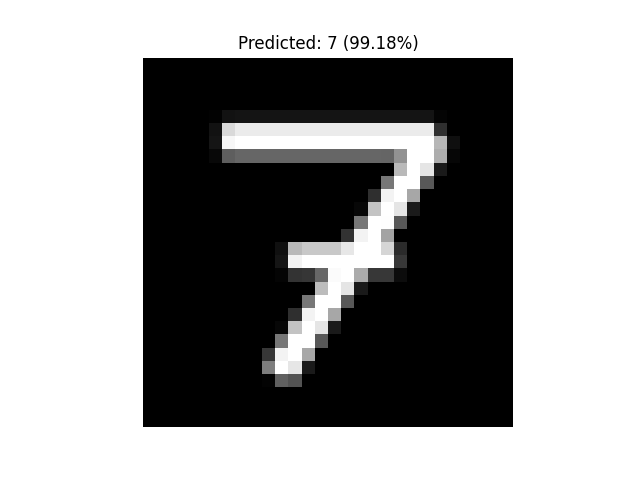
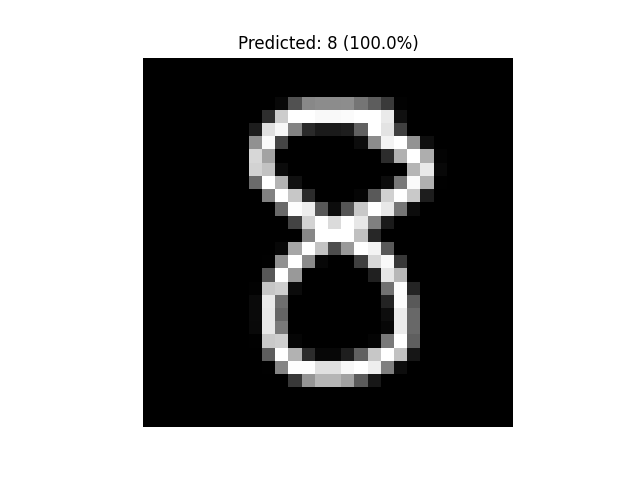
fix: update image path handling in prediction script to check for alternate image file

Changed region(s): [[0.3438, 0.1875, 0.7188, 0.8125], [0.5, 0.0625, 0.625, 0.125]]

diff --git a/test_my_digit.py b/test_my_digit.py
@@ -1,5 +1,6 @@
 # Task 11: Predict handwritten digit from custom image
 
+import os
 import numpy as np
 import matplotlib.pyplot as plt
 from PIL import Image
@@ -8,8 +9,13 @@ import tensorflow as tf
 # Load the trained CNN model
 model = tf.keras.models.load_model('model/digit_cnn.keras')
 
+# Check for digit.png or image.png in my_digit folder
+image_path = 'my_digit/digit.png'
+if not os.path.exists(image_path):
+    image_path = 'my_digit/image.png'
+
 # Open image with Pillow, convert to grayscale, and resize to 28x28
-img = Image.open('my_digit/digit.png')
+img = Image.open(image_path)
 img = img.convert('L')
 img = img.resize((28, 28))
 
